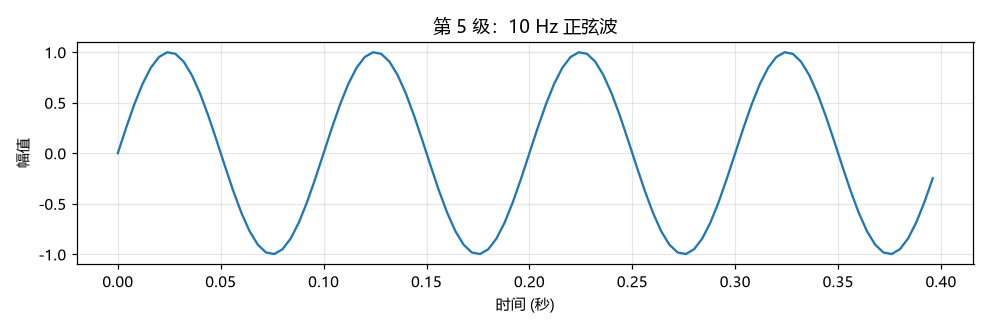
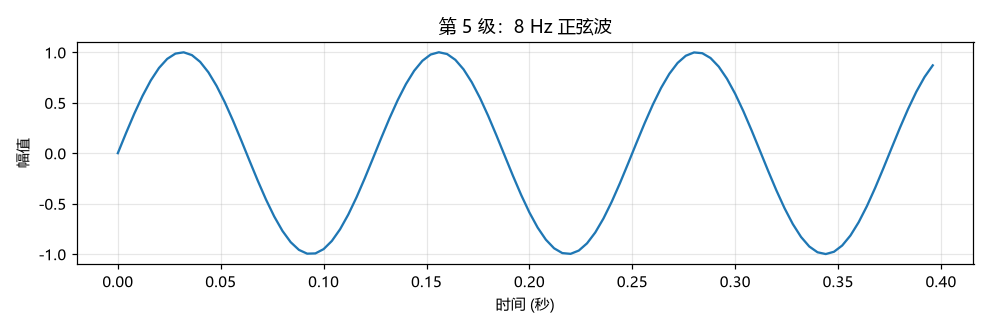
修正：姓名用字

diff --git a/python_分阶练习.py b/python_分阶练习.py
@@ -25,7 +25,7 @@ print("=" * 64)
 print(" 第 1 级：变量和打印")
 print("=" * 64)
 # 变量 = 给一个值起个名字。f = 10 的意思是"f 代表 10"
-f = 10                      # 频率，单位 Hz（赫兹 = 每秒振动次数）
+f = 8                     # 频率，单位 Hz（赫兹 = 每秒振动次数）
 amplitude = 1.0             # 振幅（波有多高）
 print("频率 f =", f, "Hz")
 print("振幅 =", amplitude)

diff --git a/Python与VSCode学习指南.md b/Python与VSCode学习指南.md
@@ -80,7 +80,7 @@ sys.stdout = io.TextIOWrapper(sys.stdout.buffer, encoding='utf-8')
 | # | 内容 | 例子 |
 |---|---|---|
 | 1 | `print()` 打印 | `print("你好")` |
-| 2 | 变量 | `f = 10`、`name = "格涵睿"` |
+| 2 | 变量 | `f = 10`、`name = "葛含瑞"` |
 | 3 | `input()` 从键盘读入 | `age = input("你几岁：")` |
 | 4 | `if / else` 判断 | `if age > 18: ... else: ...` |
 | 5 | `for` 循环 | `for i in range(5): print(i)` |
